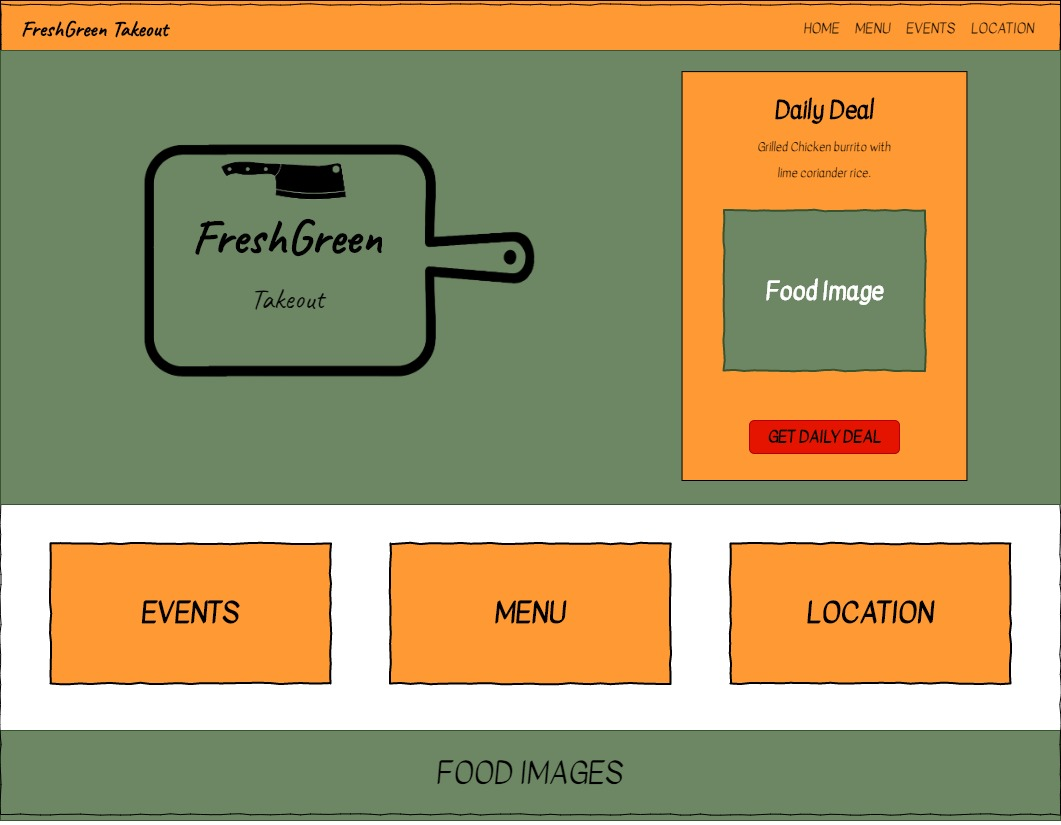
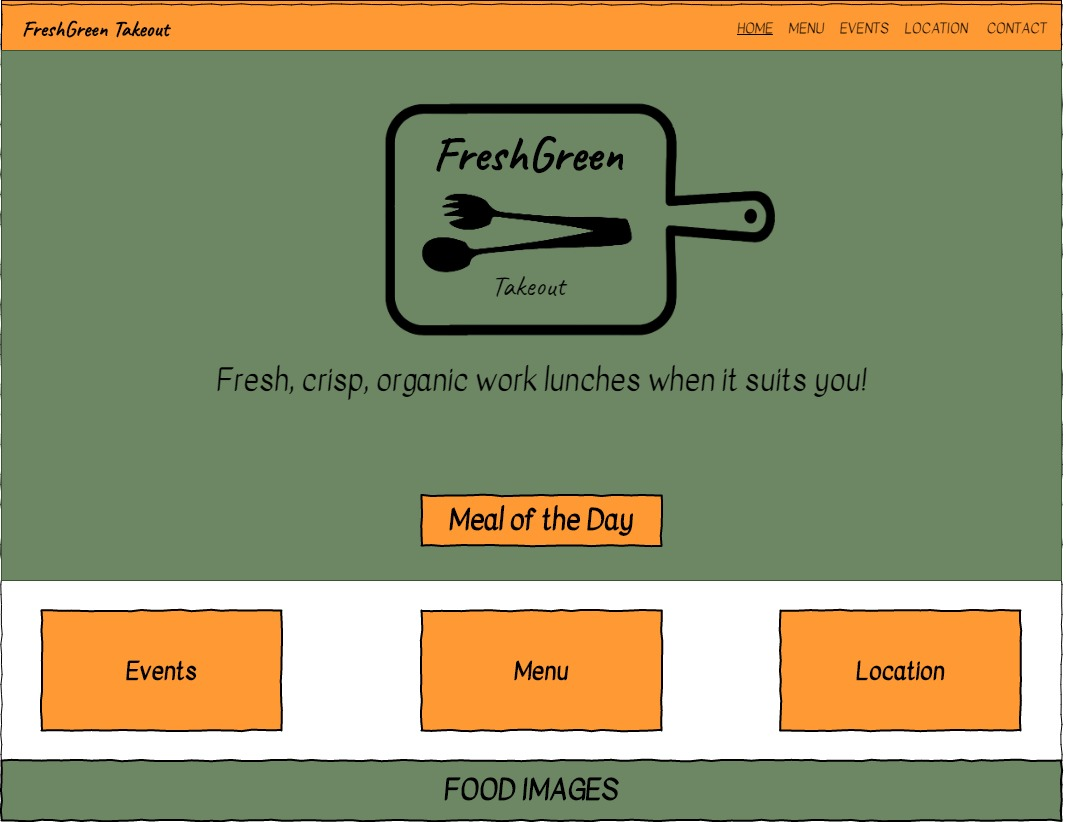
Docs: Readme updated, frontpage wireframe revised.

diff --git a/README.md b/README.md
@@ -2,15 +2,20 @@
 
 This milestone project demonstrates my ability to create a static website using **HTML5, CCS and CDNs***.
 
-The website is for a restaurant and its aim is to attract customers to boost its sales.  The main page will quickly give users an idea of the style of food available and ethos of the company.  This website also includes an online menu with prices and expandable nutrition/allergen info, also available as a downloadable PDF.  A location page with map link and opening hours.
+The website is for a restaurant and its aim is to attract customers to boost its sales.  The main page will quickly give users an idea of
+the style of food available and ethos of the company.  This website also includes an online menu with prices and expandable nutrition/allergen 
+info, also available as a downloadable PDF.  A location page with map link and opening hours.
 
-The restaurant is aimed at health conscious workers.  A customer event/loyalty page will encourage repeat custom via events, discounts and free one off workplace lunch deliveries by draw.
+The restaurant is aimed at health conscious workers.  A customer event/loyalty page will encourage repeat custom via events, discounts and free 
+one off workplace lunch deliveries by draw.
 
 
 ## UX
 
 This website is for health conscious workers looking to buy good quality, healthy fast food.  
-Primarily the users will want to view the different menu items quickly to make a dining choice.  The best way to achieve this is a quick modern looking interface to access these choices with as few clicks as possible, from the main page which will have a “dish of the day” the rest of the menu will be accessible by one click.
+Primarily the users will want to view the different menu items quickly to make a dining choice.  The best way to achieve this is a quick modern 
+looking interface to access these choices with as few clicks as possible, from the main page which will have a “dish of the day” the rest of the 
+menu and location information will be accessible by one click.
 
 ##### User stories
 * As Bob I'm a previous customer, I want to choose something to eat because I'm hungry.
@@ -20,6 +25,10 @@ Primarily the users will want to view the different menu items quickly to make a
 * As Pat, a health conscious person, I want to know the nutrition information of my lunch, so I can stay within my nutrition boundaries.
 * As Frank, a shift worker, I want to know the opening hours, so I am not wasting a trip to the restaurant. 
 
+##### wireframes
+Index
+![Index Mockup](https://github.com/KelvinHere/Milestone-FrontEnd/blob/master/design-assets/index.jpg?raw=true "Index page mockup")
+
 //TODO -----------------------------------------------------------------------------------------------
 This section is also where you would share links to any wireframes, mockups, diagrams etc. that you created as part of the design process. These files should themselves either be included as a pdf file in the project itself (in an separate directory), or just hosted elsewhere online and can be in any format that is viewable inside the browser.
 //END TODO ----------------------------------------------------------------------------------------
@@ -27,15 +36,18 @@ This section is also where you would share links to any wireframes, mockups, dia
 ## Features
 
 ##### Main page
-*A hero image to display the kind of foods available and set the tone of the company ethos.  This will have the restaurant name, hero image, dish of the day and links to all other pages on the site.  Scrolling on this site will get you to a footer with an instant menu download PDF
+*A hero image to display the kind of foods available and set the tone of the company ethos.  This will have the restaurant name, hero image, 
+dish of the day and links to all other pages on the site.  Scrolling on this site will get you to a footer with an instant menu download PDF
 
 ##### Menu Page
 * Will show off the restaurants dishes, with an at a glance allergen/suitable for icons.  
 * Menu items will be clickable, opening up a larger image in a bootstrap modal, this will give more information on nutrition and allergens.  
-* From the menuitem model there will be an “I want this” button that will open another modal with the name of the food, the address/opening hours and a map with viewable street names.
+* From the menuitem model there will be an “I want this” button that will open another modal with the name of the food, the address/opening 
+hours and a map with viewable street names.
 
 ##### Events page
-* A page to show current events and eligibility to enter delivery draws through repeat custom.  Under this information will be photographs and videos of events.  This page's goal is to give the customers a sense of inclusion and community.
+* A page to show current events and eligibility to enter delivery draws through repeat custom.  Under this information will be photographs and 
+videos of events.  This page's goal is to give the customers a sense of inclusion and community.
 * This page will have an entry form for the draw that will take these inputs from the user :-
     * Name
     * Workplace address
@@ -71,11 +83,11 @@ Created by KelvinHere
 
 ### Media
 
-My brother who is skilled in digital photography
+My brother Edwin who is skilled in digital photography
 
 ### Acknowledgements
 
-- My brother for his photography skills.
+- My brother Edwin for his photography skills.
 - Code Institute for properly embracing the future with an online only course.
 - My noise canceling headphones, so I can still work during quarantine.
 
